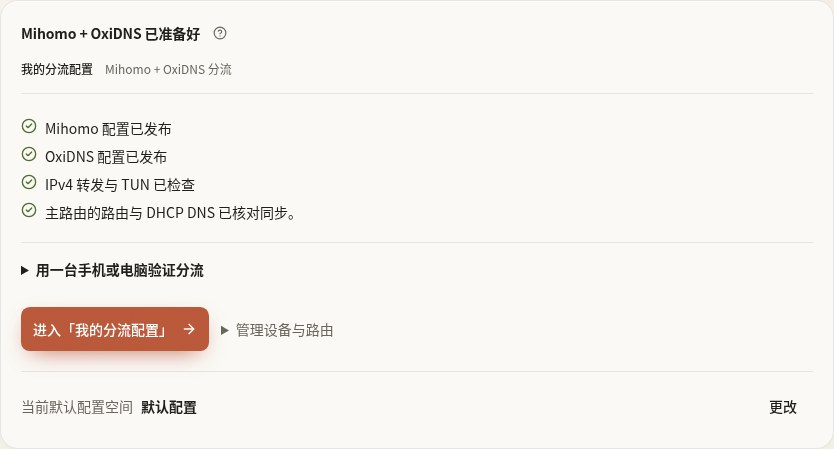
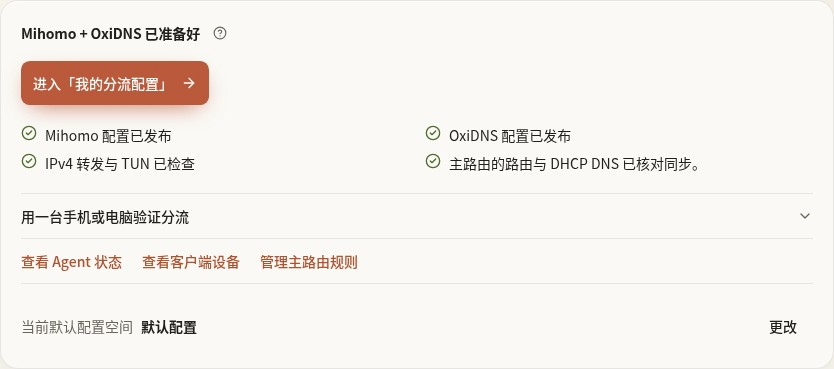
同步完成页布局截图、操作说明和验证断言

diff --git a/frontend/tests/setup-flow.test.ts b/frontend/tests/setup-flow.test.ts
@@ -417,7 +417,7 @@ describe('首次使用分流向导', () => {
     await click('确认设置并继续')
     expect(setupApi.finish).toHaveBeenCalledWith('a'.repeat(32), { router_mode: 'manual', router_id: '', ack_routes: true, ack_dns: true })
     expect(wrapper!.text()).toContain('主路由为手动配置，尚未自动核验')
-    expect(wrapper!.text()).toContain('客户端连通性尚未由本向导确认')
+    expect(wrapper!.get('details').text()).toContain('分别打开一个国内直连网站和一个应走代理的网站')
   })
 
   it('完成路由接入后单独保存默认空间，普通完成保留原先的默认值', async () => {
